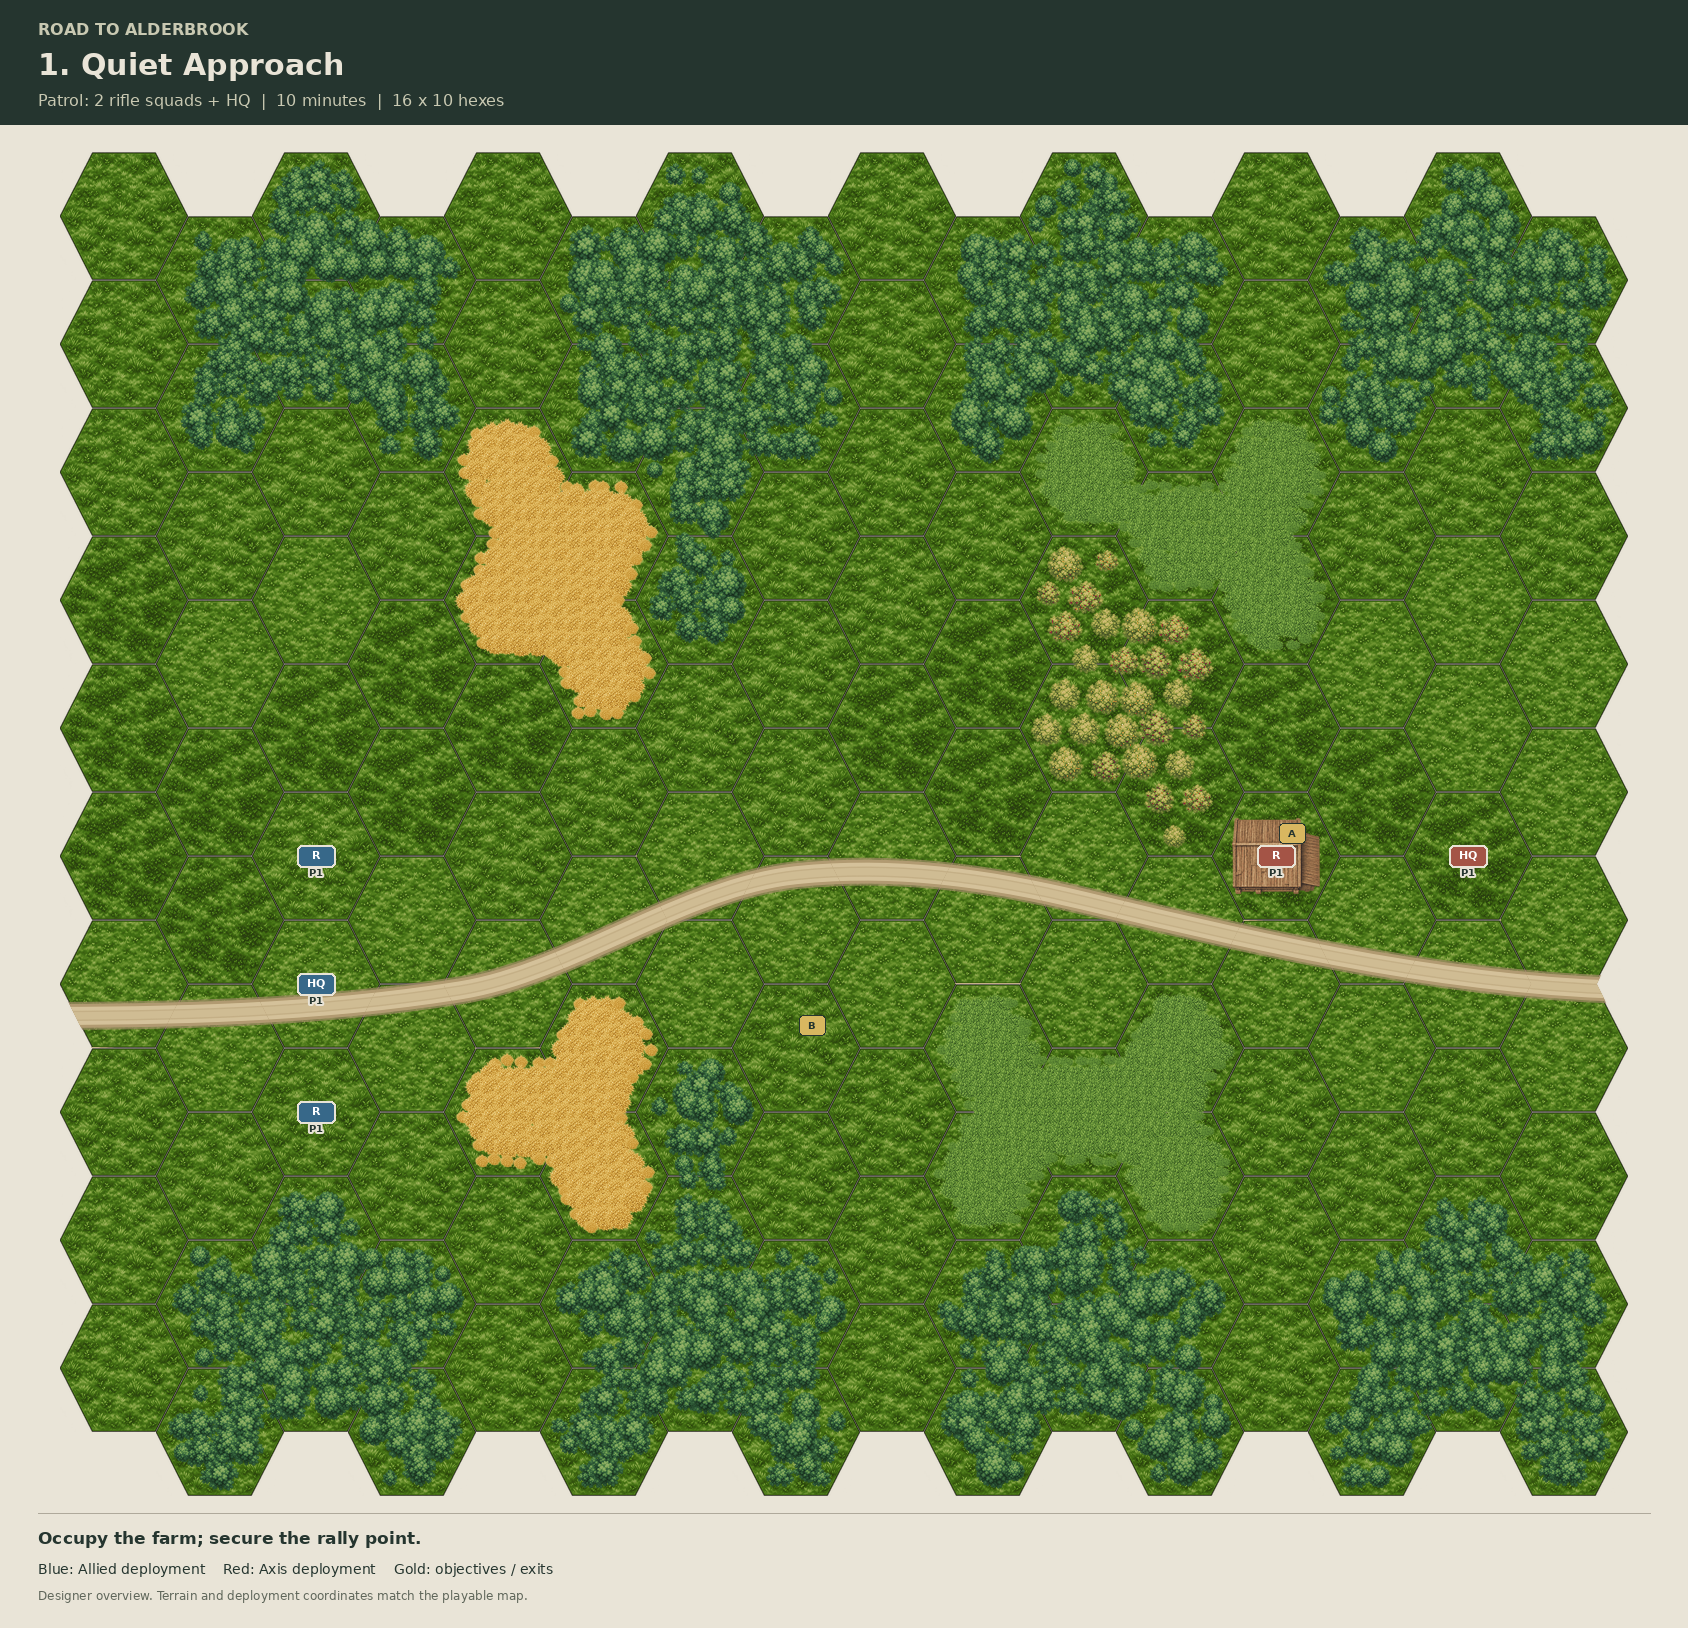
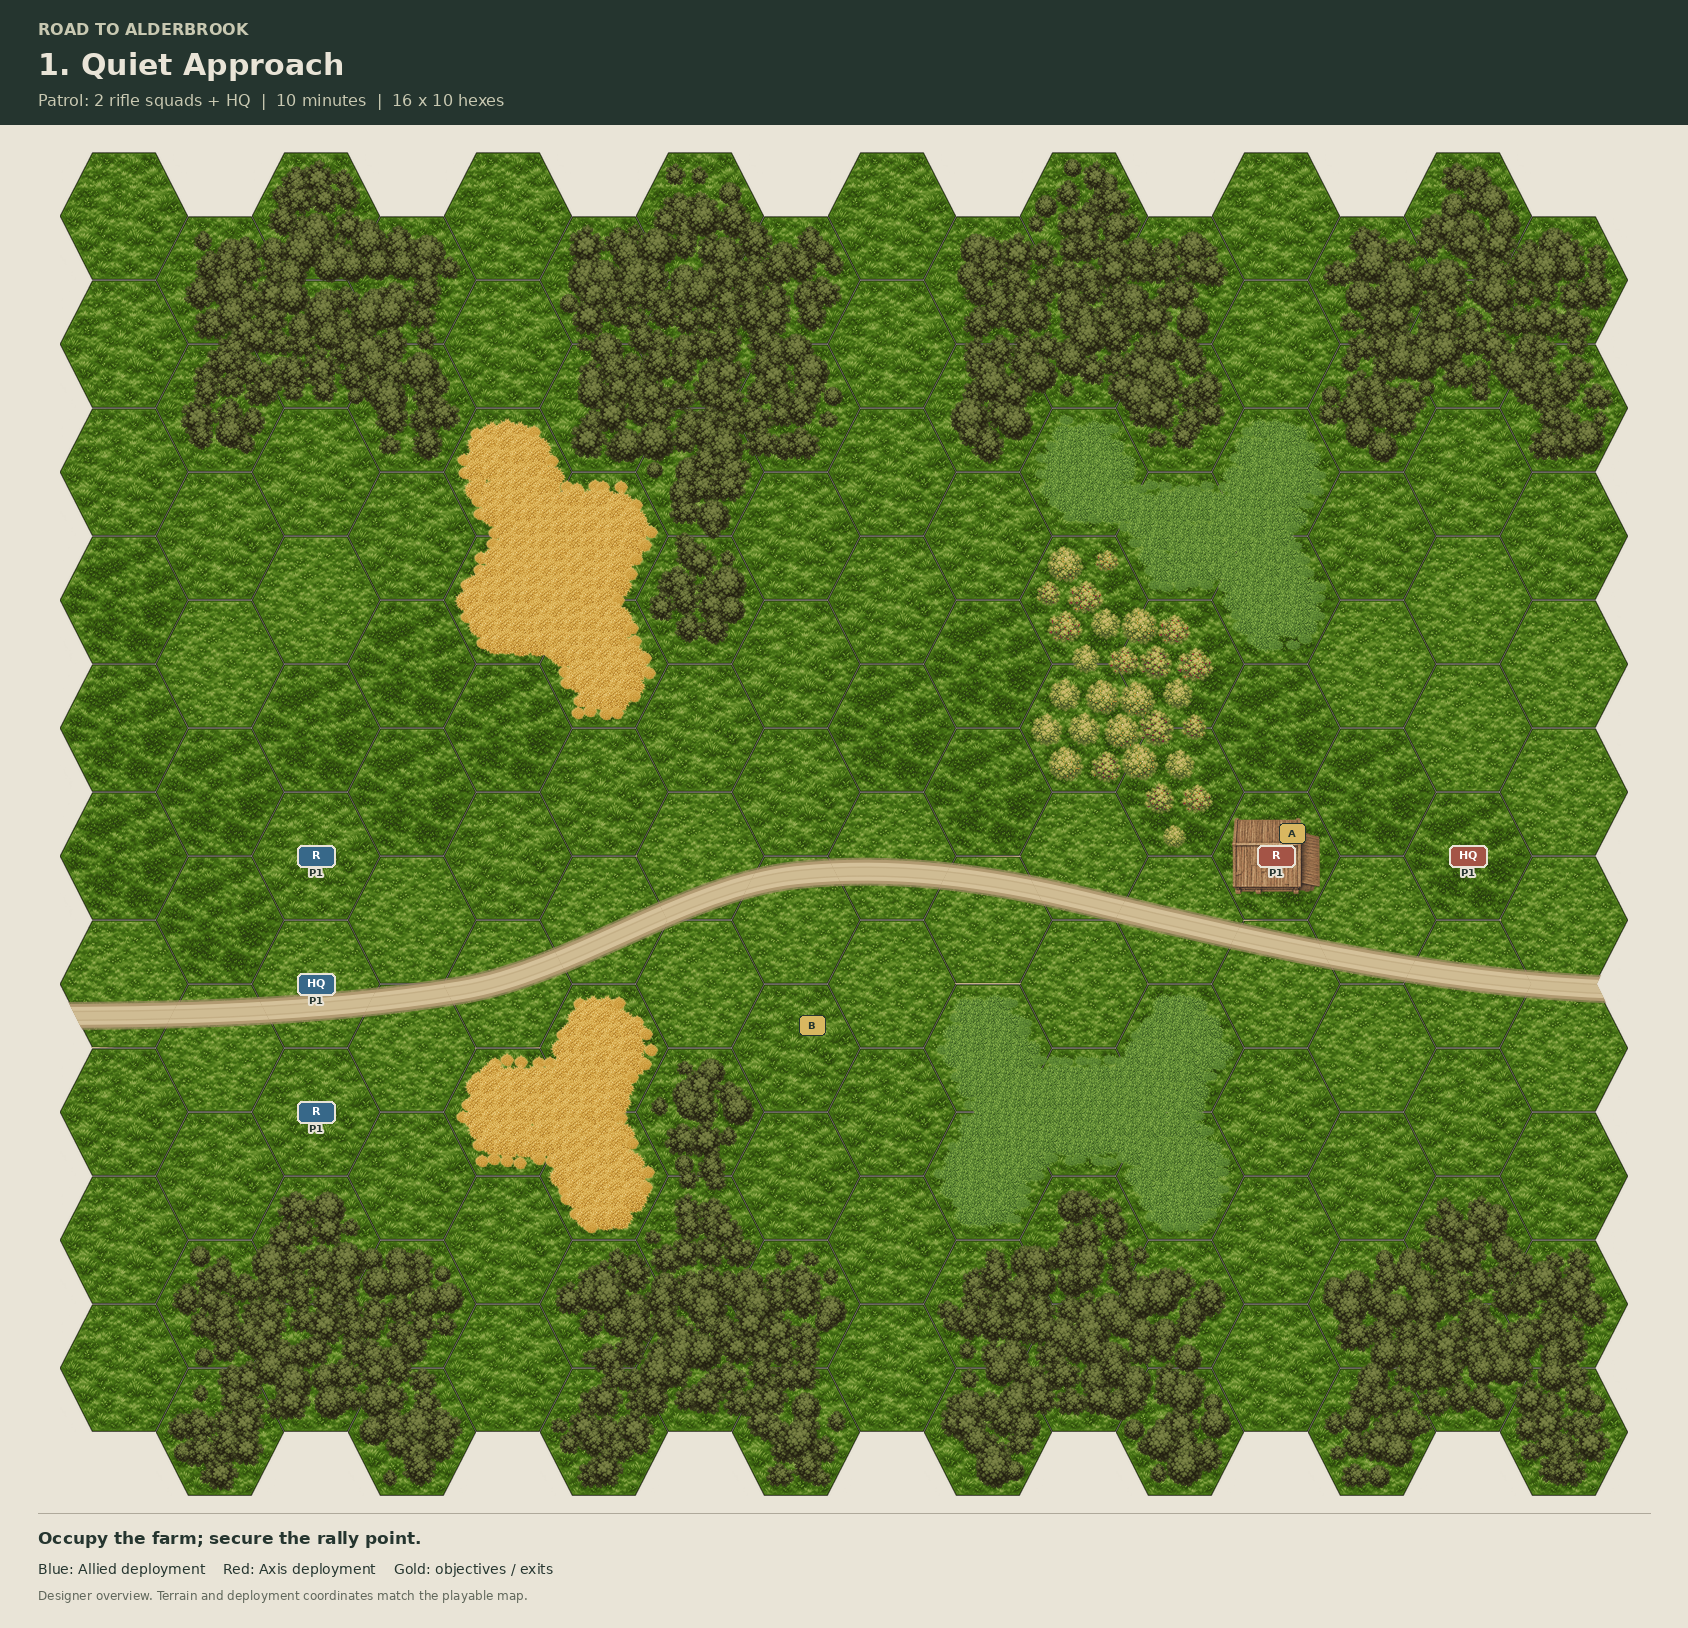
fix: apply olive and brown colors to Alderbrook woods

diff --git a/docs/art/terrain_palette.md b/docs/art/terrain_palette.md
@@ -2,7 +2,7 @@
 
 The campaign uses the approved [base-tile palette](palette-proposals/natural-richness.png), anchored on grass green `#427012`. Runtime colors and source brightness stops are stored in [terrain_palettes.json](../../assets/palettes/terrain_palettes.json).
 
-All five missions use these colors for open ground, woods, orchard foliage and fruit, continuous wheat and green crops, roads, river water, bridge timber, and stone and timber buildings. Existing outlines and fog use the neutral palette. Woods use deeper forest greens; orchards use warmer olive foliage with red apples, amber pears and pale blossoms.
+All five missions use these colors for open ground, woods, orchard foliage and fruit, continuous wheat and green crops, roads, river water, bridge timber, and stone and timber buildings. Existing outlines and fog use the neutral palette. Woods use the approved muted olive `#555F2D` foliage and dark brown `#2C2A16` shadows, with nearby shading stops for the existing canopy detail. Their single-material ramp keeps warm source pixels within the same olive-and-brown scheme. Orchards retain their lighter foliage with red apples, amber pears and pale blossoms.
 
 The palette changes RGB during rendering. Source textures, their alpha, tile spacing, cell placement, connected terrain shapes, cover metadata and baked LOS remain unchanged. Campaign layers clone their used tile sources before assigning materials, so shared base maps retain their original colors. The palette JSON is preloaded as a Godot resource and included through its normal export dependency.
 
